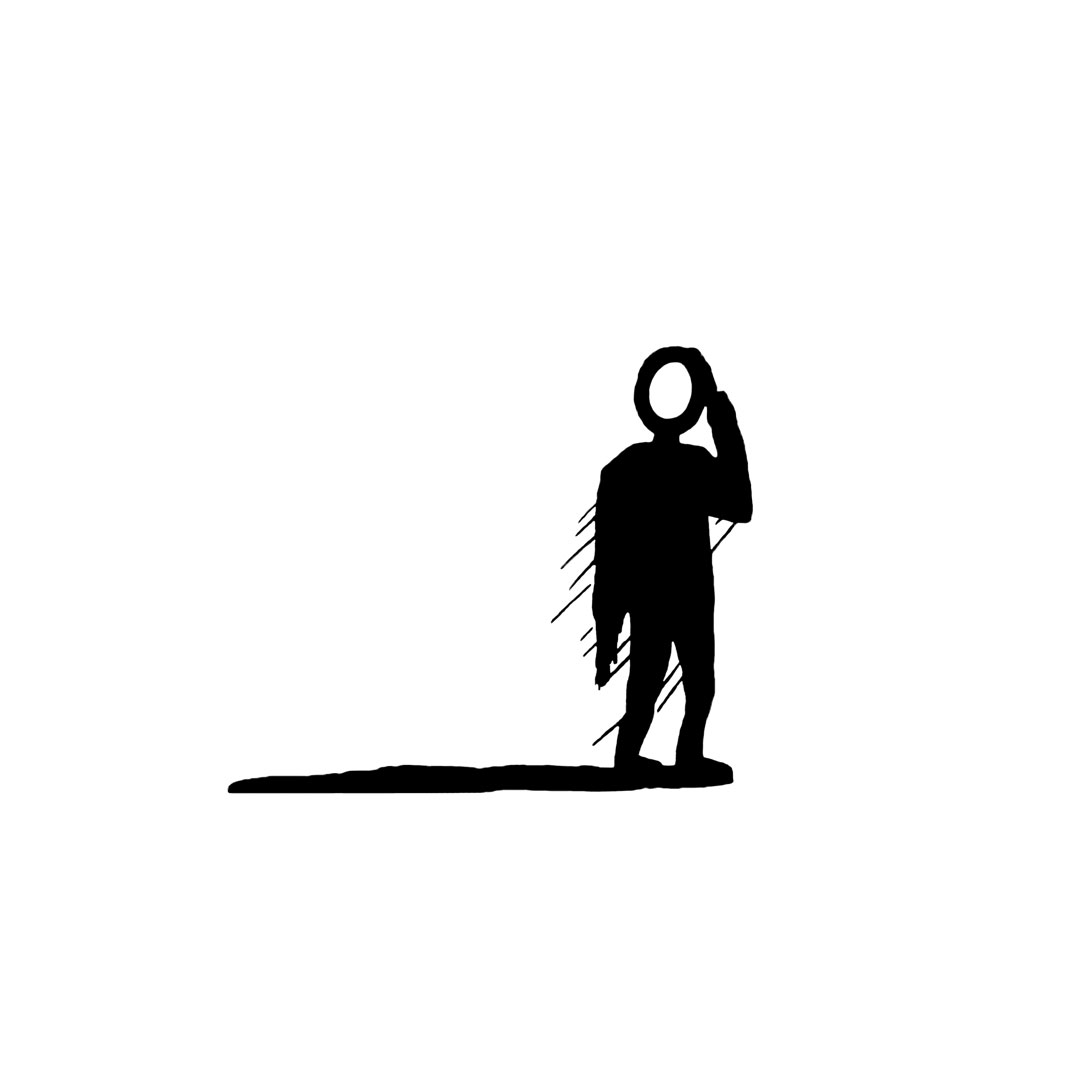
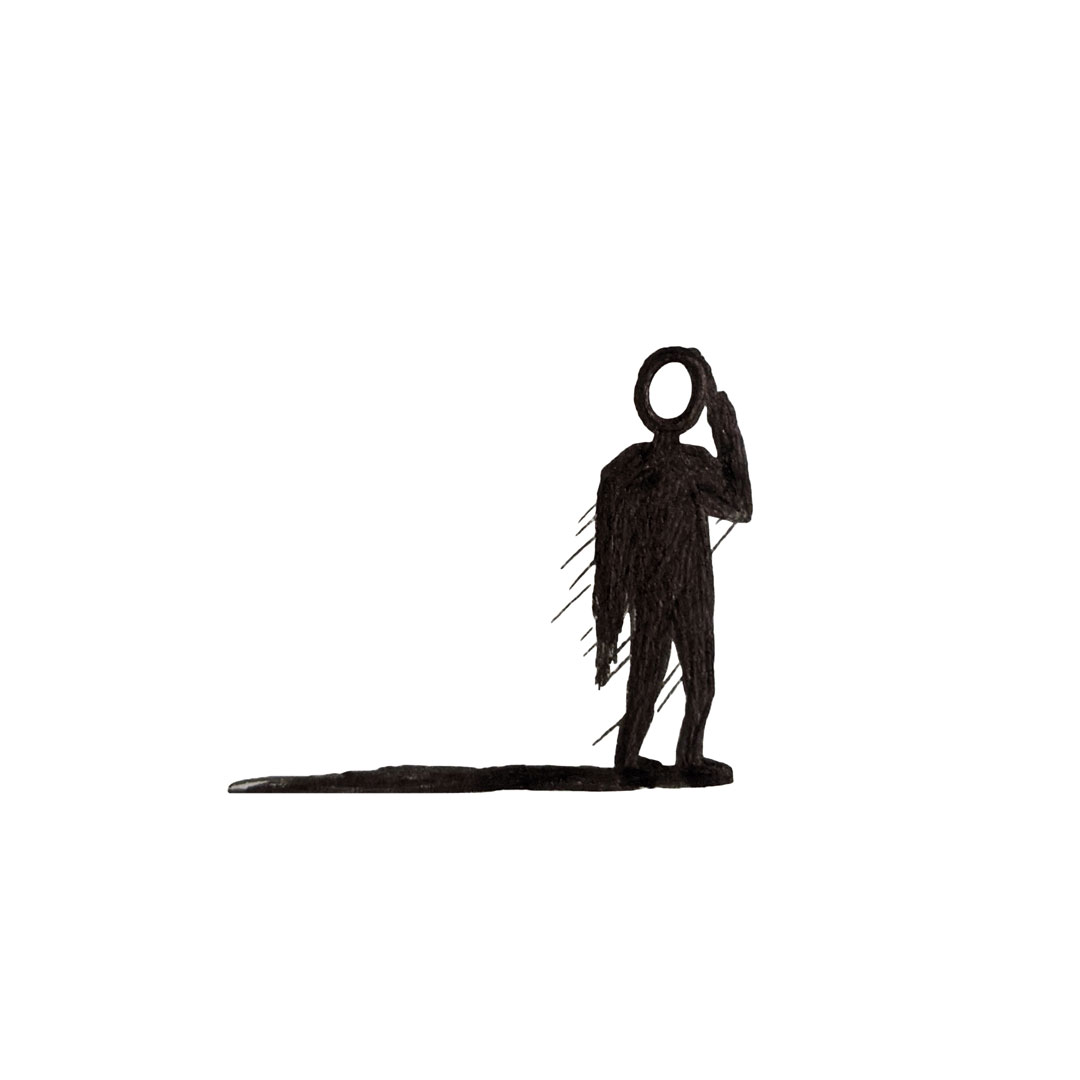
hindsight

Changed region(s): [[0.2139, 0.3056, 0.7028, 0.7333]]

diff --git a/index.html b/index.html
@@ -17,9 +17,9 @@
 </head>
 <body>
 
-    <!-- no words -->
+    <!-- hindsight -->
 
-    <img src="assets/dude.jpg" alt="dude" id="dude">
+    <img src="assets/dude_3.jpg" alt="dude" id="dude">
 
     <footer>
 
